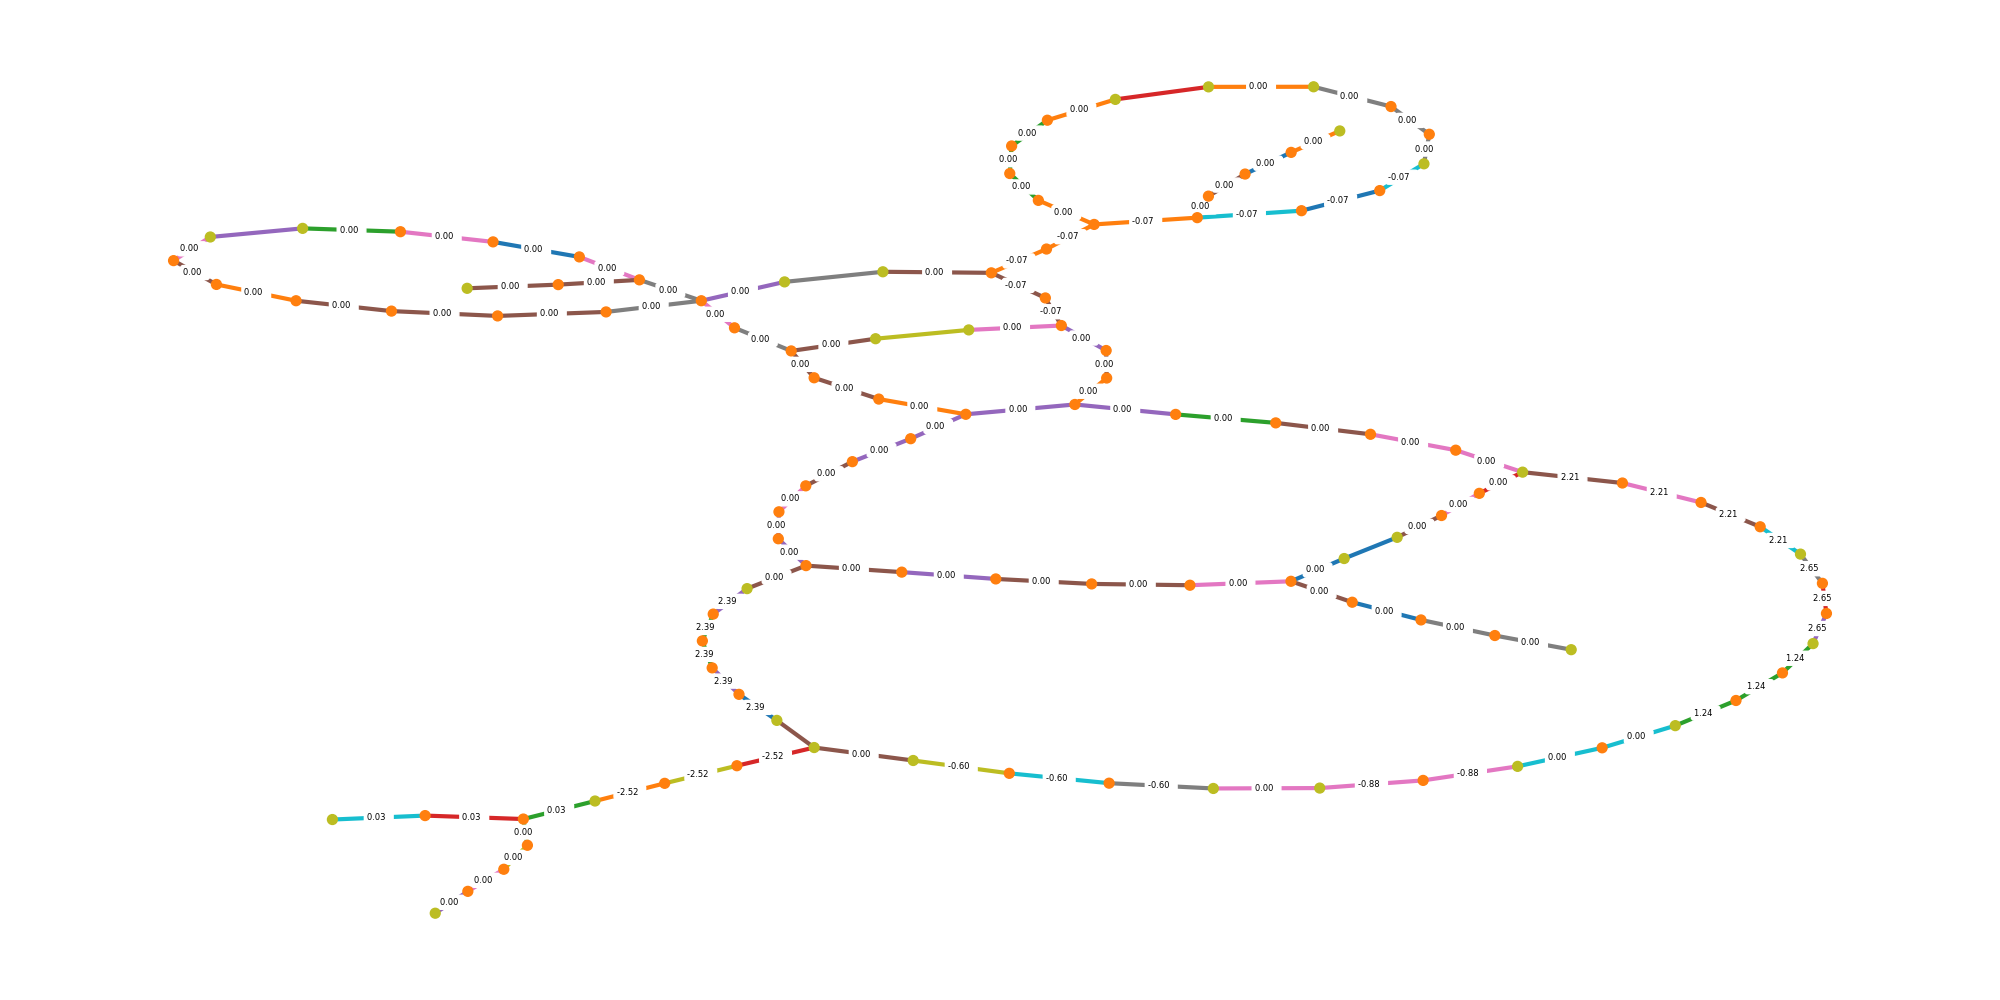
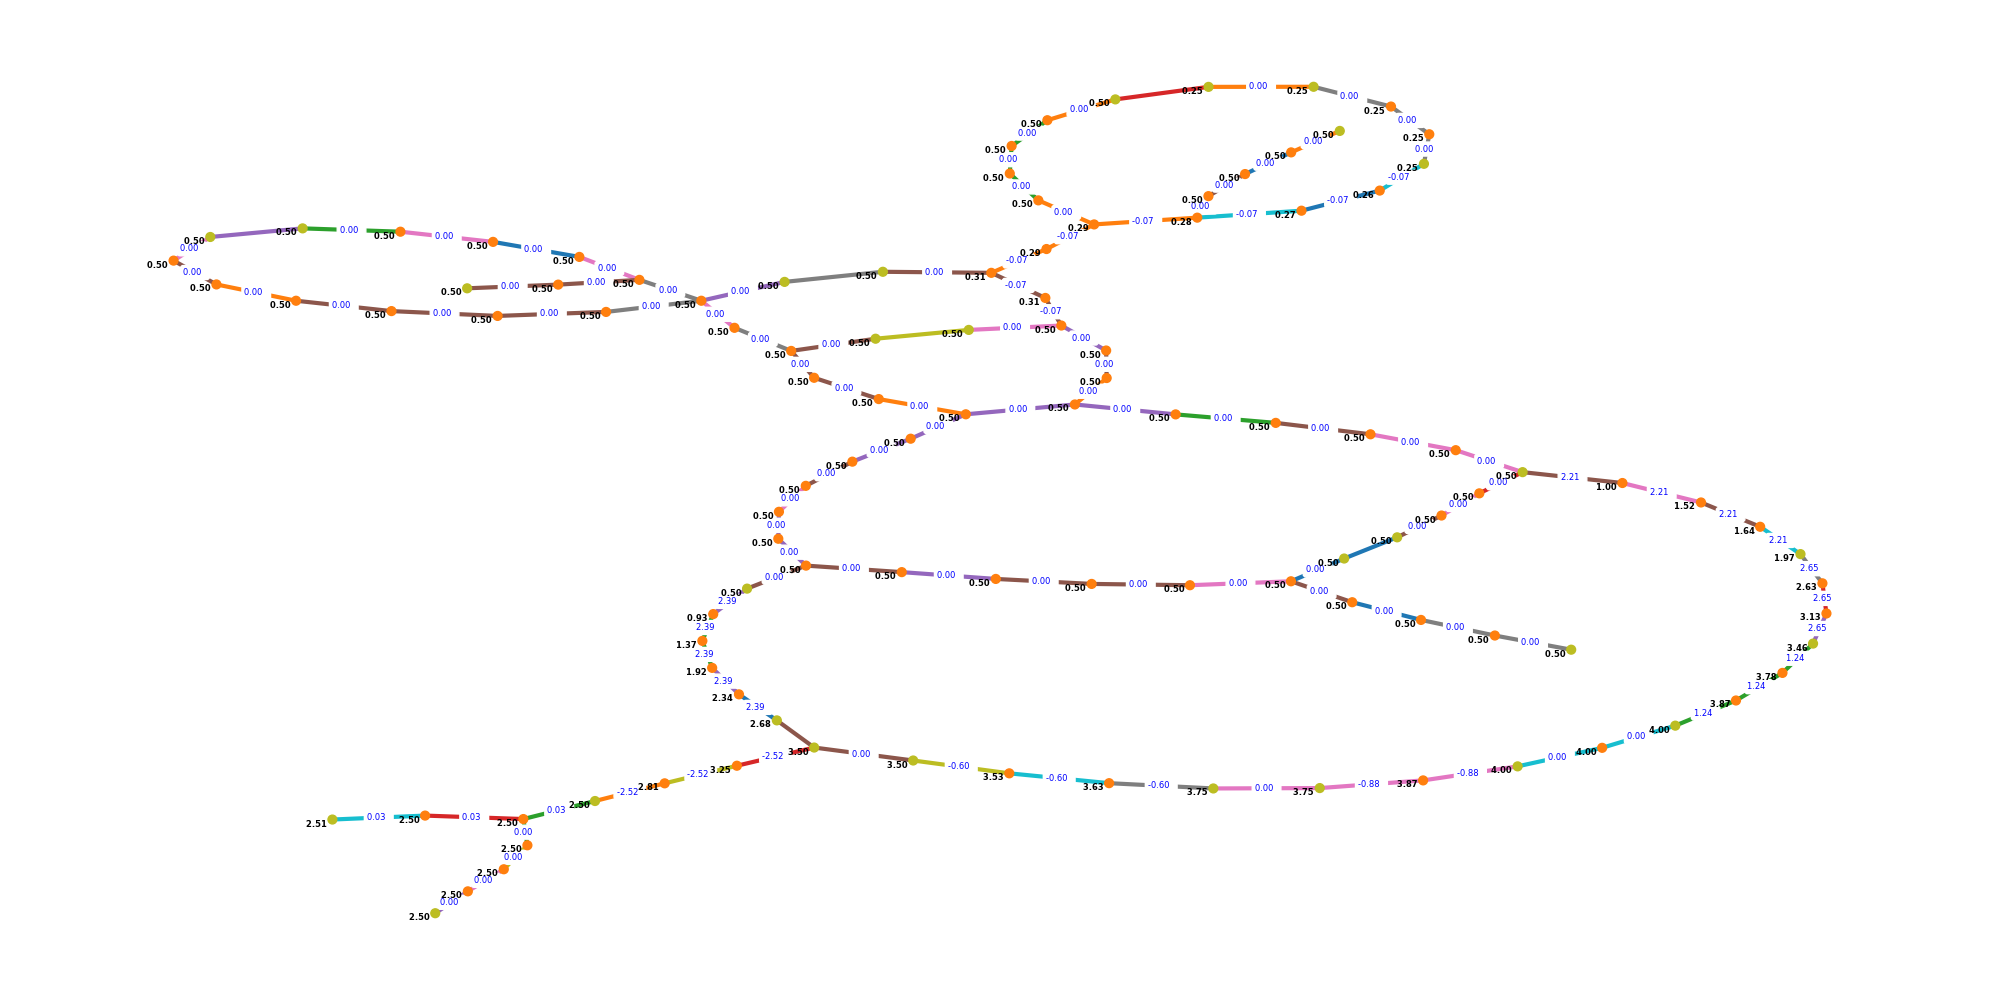
tweaked formatting, noted problem with span tree

diff --git a/elevations.py b/elevations.py
@@ -171,13 +171,13 @@ def draw_graph(G,path,pos,node_labels=None,node_colors=None,edge_labels=None,edg
   plt.axis('off')
   plt.tight_layout(pad=0)
 
-  options={'node_color':node_colors,'with_labels':False,'node_size':50,'edge_color':edge_color,'width':3}
+  options={'node_color':node_colors,'with_labels':False,'node_size':40,'edge_color':edge_color,'width':3}
   nx.draw_networkx(G, pos,**options)
   if node_labels:
-    options={'horizontalalignment':'right','verticalalignment':'bottom','font_size':8,'font_color':'k','font_weight':'bold'}
+    options={'horizontalalignment':'right','verticalalignment':'top','font_size':6,'font_color':'k','font_weight':'bold'}
     nx.draw_networkx_labels(G,pos,node_labels,**options)
   if edge_labels:
-    options={'font_size':6,'rotate':False}
+    options={'font_size':6,'rotate':False,'font_color':'b'}
     nx.draw_networkx_edge_labels(G,pos,edge_labels=edge_labels,**options)
 
   plt.savefig(path)
@@ -322,7 +322,7 @@ def drawing_decorations(G):
     '''
   node_labels=nx.get_node_attributes(G,'height')
   node_labels={key:'%.2f  '%(value) for (key,value) in node_labels.items()}
-  node_labels=None
+  #node_labels=None
 
   node_computed=nx.get_node_attributes(G,'computed')
   df=pd.DataFrame(node_computed.values(),index=node_computed.keys(),columns=['computed'])

diff --git a/docs/index.md b/docs/index.md
@@ -7,6 +7,8 @@ The layout below is stored in a file created by the xtrkcad program.
 That file is read by custom Python code and graph object is generated with the Python library networkx.  
 Networkx provides tools to convert the graph into a spanning tree.  The spanning tree has all the nodes and edges but because it is a tree it can be "walked" in an orderly way.  This allows a the program to walk through the tree and fill in the missing heights, so that every node has a height.
 
+There is a problem with this method.  Not all edges are accounted for in the spanning tree (although all nodes are).  The missing edges are because adjacent nodes end up on different branches of the tree. These end up not labeled and if they should be on a grade this is not taken into account.
+
 The spanning tree looks like this (currenly showing grades on the edges):
 ![Spanning Tree](./span_tree.png)
 
